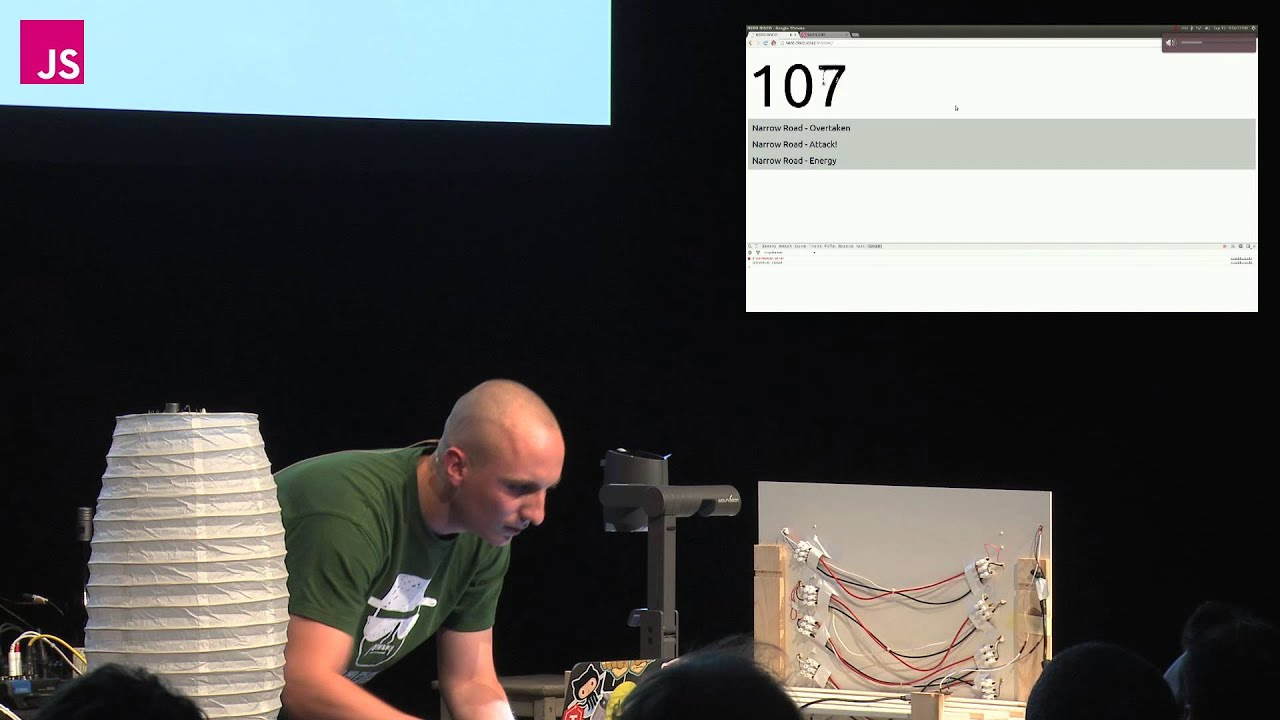
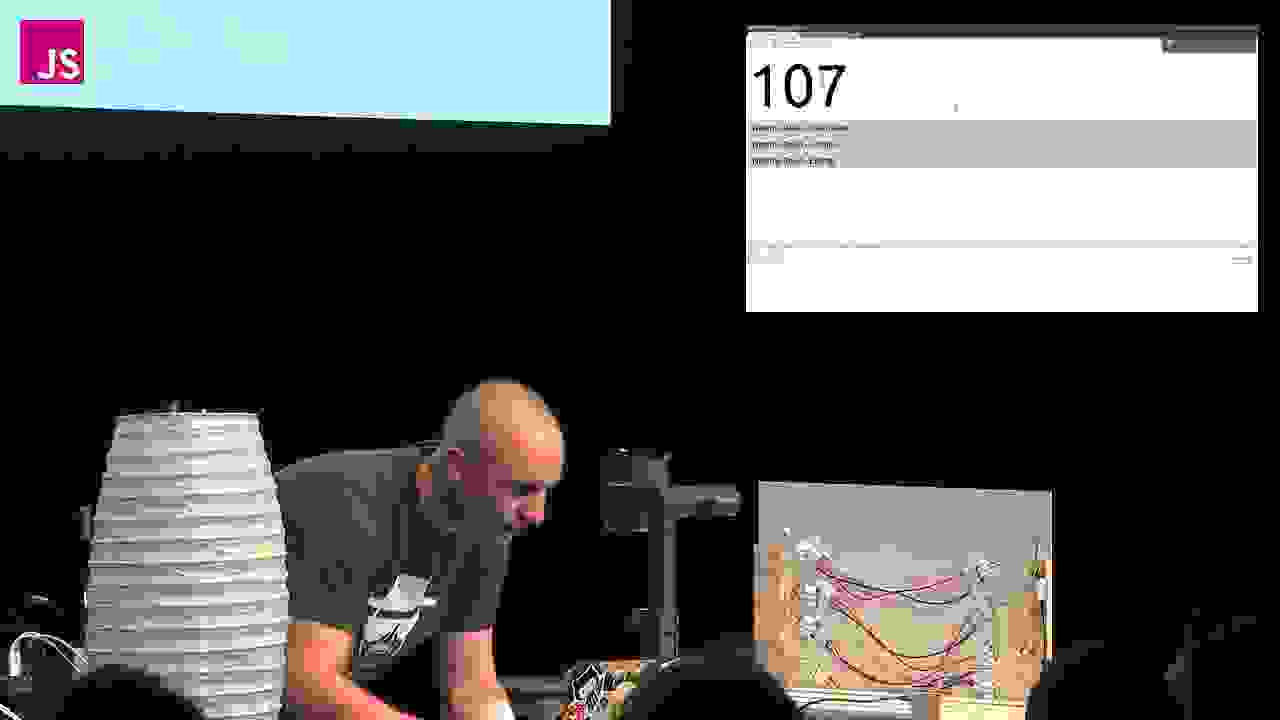
feat(image-optimization): All jpegs with quality 1%

diff --git a/README.md b/README.md
@@ -10,3 +10,13 @@
 * Push back to the repo
 
 When your commit / PR is merged into the master, it will trigger a build on netlify automatically and update the website. 
+
+
+### Optimizations
+
+Make sure to optimize the images to the maximum
+
+```
+cd static/shows/original
+jpegoptim -o -d ../ -m 1
+```
